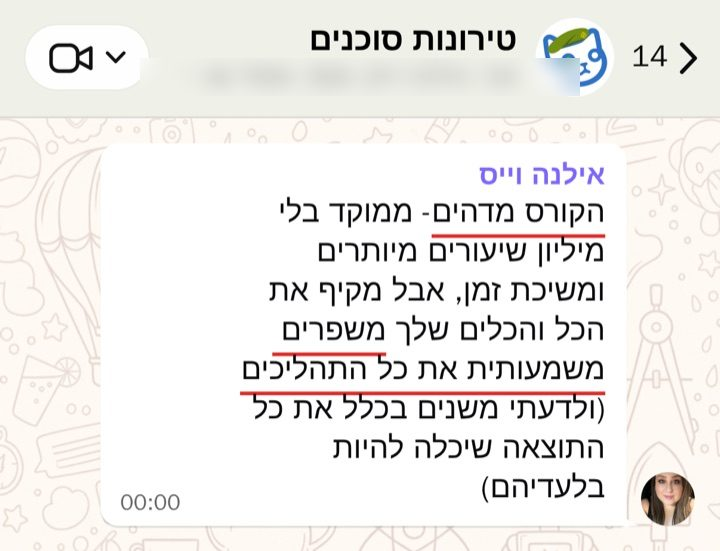
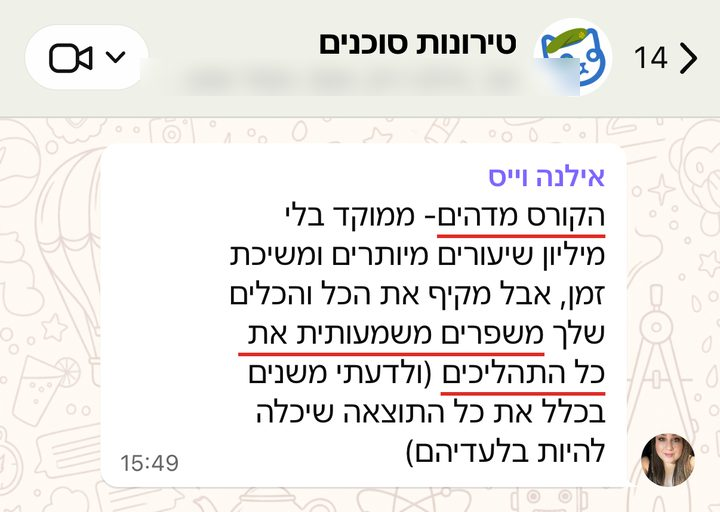
המלצות בדף המכירה: תמונות הודעות עם השעה האמיתית במקום 00:00
7 תמונות הופקו מחדש עם השעה מייצואי הוואטסאפ (אותו טקסט, אותם קווים אדומים,
תמונות פרופיל). ההודעה של בת חן מקבוצת השאלות (TRN-0052) לא נמצאה באף ייצוא,
והוחלפה בהודעה המקבילה מהשיחה הפרטית (TRN-0568, 20:55).

diff --git a/index.html b/index.html
@@ -957,7 +957,7 @@
         <div class="tm-videobox"><div class="tm-video" role="button" tabindex="0" aria-label="ניגון הסרטון: רננה צברי · תפסתי את המקום האחרון" data-v="{&quot;id&quot;: &quot;1223170982&quot;, &quot;h&quot;: &quot;ca3f7dad2d&quot;, &quot;poster&quot;: &quot;faq/images/cf-1223170982.jpg&quot;, &quot;cap&quot;: &quot;רננה צברי · תפסתי את המקום האחרון&quot;}"></div><p class="tm-vcap">רננה צברי · 27 שניות</p></div>
         <div class="tm-stack">
           <div class="tm-shots">
-            <figure class="tm-shot"><button type="button" aria-label="הגדלת ההודעה של בת חן לוי"><img src="students/wa/TRN-0052.jpg" alt="בת חן לוי: יש לי סוכן שמנתח לי דוחות רווחיות מה-ERP - חוסך לי משרה שלמה של אנליסט בכיר" loading="lazy"></button><figcaption>הודעה בקבוצת השאלות של הטירונות · בת חן לוי</figcaption></figure>
+            <figure class="tm-shot"><button type="button" aria-label="הגדלת ההודעה של בת חן לוי"><img src="students/wa/TRN-0568.jpg" alt="בת חן לוי: חסכתי לארגון שלי תקינה של אנליסט בכיר - 30,000 ₪ בחודש" loading="lazy"></button><figcaption>הודעה ששלחה לשלהבת · בת חן לוי</figcaption></figure>
             <figure class="tm-shot"><button type="button" aria-label="הגדלת ההודעה של דולב דרי"><img src="students/wa/TRN-0387.jpg" alt="דולב דרי: אמרתי לו שהייתי משלם גם 20 אלף על הקורס הזה" loading="lazy"></button><figcaption>הודעה ששלח לשלהבת · דולב דרי</figcaption></figure>
           </div>
           <article class="tm-review"><div class="tm-review__head"><svg viewBox="0 0 48 48" aria-hidden="true"><path fill="#FFC107" d="M43.6 20.5H42V20H24v8h11.3C33.7 32.7 29.2 36 24 36c-6.6 0-12-5.4-12-12s5.4-12 12-12c3.1 0 5.8 1.2 7.9 3.1l5.7-5.7C34 6.1 29.3 4 24 4 12.9 4 4 12.9 4 24s8.9 20 20 20 20-8.9 20-20c0-1.3-.1-2.4-.4-3.5z"/><path fill="#FF3D00" d="m6.3 14.7 6.6 4.8C14.7 15.1 19 12 24 12c3.1 0 5.8 1.2 7.9 3.1l5.7-5.7C34 6.1 29.3 4 24 4 16.3 4 9.7 8.3 6.3 14.7z"/><path fill="#4CAF50" d="M24 44c5.2 0 9.9-2 13.4-5.2l-6.2-5.2C29.2 35.1 26.7 36 24 36c-5.2 0-9.6-3.3-11.3-7.9l-6.5 5C9.5 39.6 16.2 44 24 44z"/><path fill="#1976D2" d="M43.6 20.5H42V20H24v8h11.3c-.8 2.2-2.2 4.2-4.1 5.6l6.2 5.2C37 39.2 44 34 44 24c0-1.3-.1-2.4-.4-3.5z"/></svg><span><span class="tm-review__name">Noam Zarzevsky</span><span class="tm-review__meta"><span class="tm-stars" aria-label="5 כוכבים">★★★★★</span> · ביקורת בגוגל · אוקטובר 2026</span></span></div><p>יש לא מעט קורסים ברשת עם מלא הבטחות, על יכולת ומה לא......</p><p>אחרי לא מעט לבטים ולמרות העלות ברף העליון של הקורסים</p><p>חייב להודות מכל הלב לשלהבת</p><p>על השיטה, הלמידה, ההסברים ובעיקר התוצאות</p><p>לקח בדיוק שבוע וחצי עד שהתחלתי לראות מה אני מקבל וכמה אני יכול לייצר מהסיפור הזה - מומלץ בחום</p></article>
